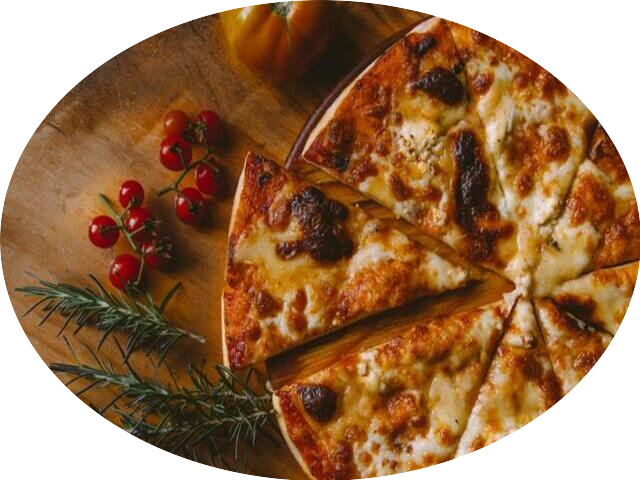
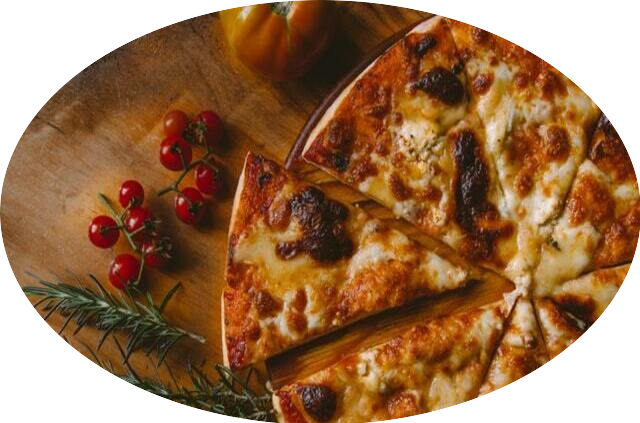
Inserir novos formatos de imagens para o slider. Criar handlers para o slider e finalizar estilo CSS.

diff --git a/components/Slider.jsx b/components/Slider.jsx
@@ -1,3 +1,4 @@
+import { useState } from 'react';
 import Image from 'next/image';
 
 // styles
@@ -7,24 +8,42 @@ import styles from '../styles/Slider.module.css';
 
  
 const Slider =() => {
+	const [ index, setIndex ] = useState(0);
+	console.log(index);
+	
 	const images = [
-		"/images/featured1-cropped.png",
+		"/images/featured4-cropped.png",
 		"/images/featured2-cropped.png",
-		"/images/featured3-cropped.png"
+		"/images/featured1-cropped.png"
 	];
+	
+	const handleArrow = (direction) => {
+		if (direction === 'l') {
+			setIndex(index !== 0 ? index - 1 : 2);
+		}
+		if (direction === 'r') {
+			setIndex(index !== 2 ? index + 1 : 0);
+		}
+	};
 	
 	
 	
 	return (
 		<div className={styles.container}>
-			<div className={styles.arrowContainer} style={{left:0}}>
+			<div className={styles.arrowContainer} style={{left:0}} onClick={() => handleArrow('l')}>
 				<Image 
 					src="/images/arrowl.png" 
 					alt="" 
-					layout="fill" 
+					layout="fill"
+					objectFit="contain"
 				/>
 			</div>
-			<div className={styles.wrapper}>
+			<div 
+				className={styles.wrapper}
+				style={{
+					transform:`translateX(${-100 * index}vw)`
+				}}
+			>
 				
 				{images.map((image, index) => (
 					<div className={styles.imgContainer} key={index}>
@@ -32,18 +51,19 @@ const Slider =() => {
 							className={styles.sliderImg} 
 							src={image} 
 							alt="" 
-							width="540"
-							height="380"
+							layout="fill"
+							objectFit="contain"
 						/>
 					</div>
 				))}
 				
 			</div>
-			<div className={styles.arrowContainer} style={{right: 0}}>
+			<div className={styles.arrowContainer} style={{right: 0}} onClick={() => handleArrow('r')}>
 				<Image 
 					src="/images/arrowr.png" 
 					alt="" 
 					layout="fill"
+					objectFit="contain"
 				/>
 			</div>
 		</div>

diff --git a/styles/Slider.module.css b/styles/Slider.module.css
@@ -1,6 +1,6 @@
 .container {
 	height: calc(100vh - 100px);
-	background-color: #d1411e;
+	background-color: #a9371b; /*#d1411e;*/
 }
 
 .arrowContainer {
@@ -11,19 +11,23 @@
 	bottom: 0;
 	margin: auto;
 	cursor: pointer;
+	z-index: 2;
 }
 
 .wrapper {
 	width: 300vw;
 	height: 100%;
+	display: flex;
+	transition: all 1.5s ease-in-out;
 }
 
 .imgContainer {
 	width: 100vw;
-	height: 100%;
+	height:90%;
 	position: relative;
-	left: 200px;
-	top: 40px
+	top: 20px
+	
+	/*left: 200px;*/
 }
 
 .sliderImage {

diff --git a/pages/_app.js b/pages/_app.js
@@ -1,7 +1,7 @@
 // api- https://www.youtube.com/watch?v=Z-hACIsjv4E
 //  0hs 8' 10'' 
 // ui- https://www.youtube.com/watch?v=vIxGDq1SPZQ
-//  0hs 29' 00''  
+//  0hs 36' 20''  
 import '../styles/globals.css';
 
 // components
